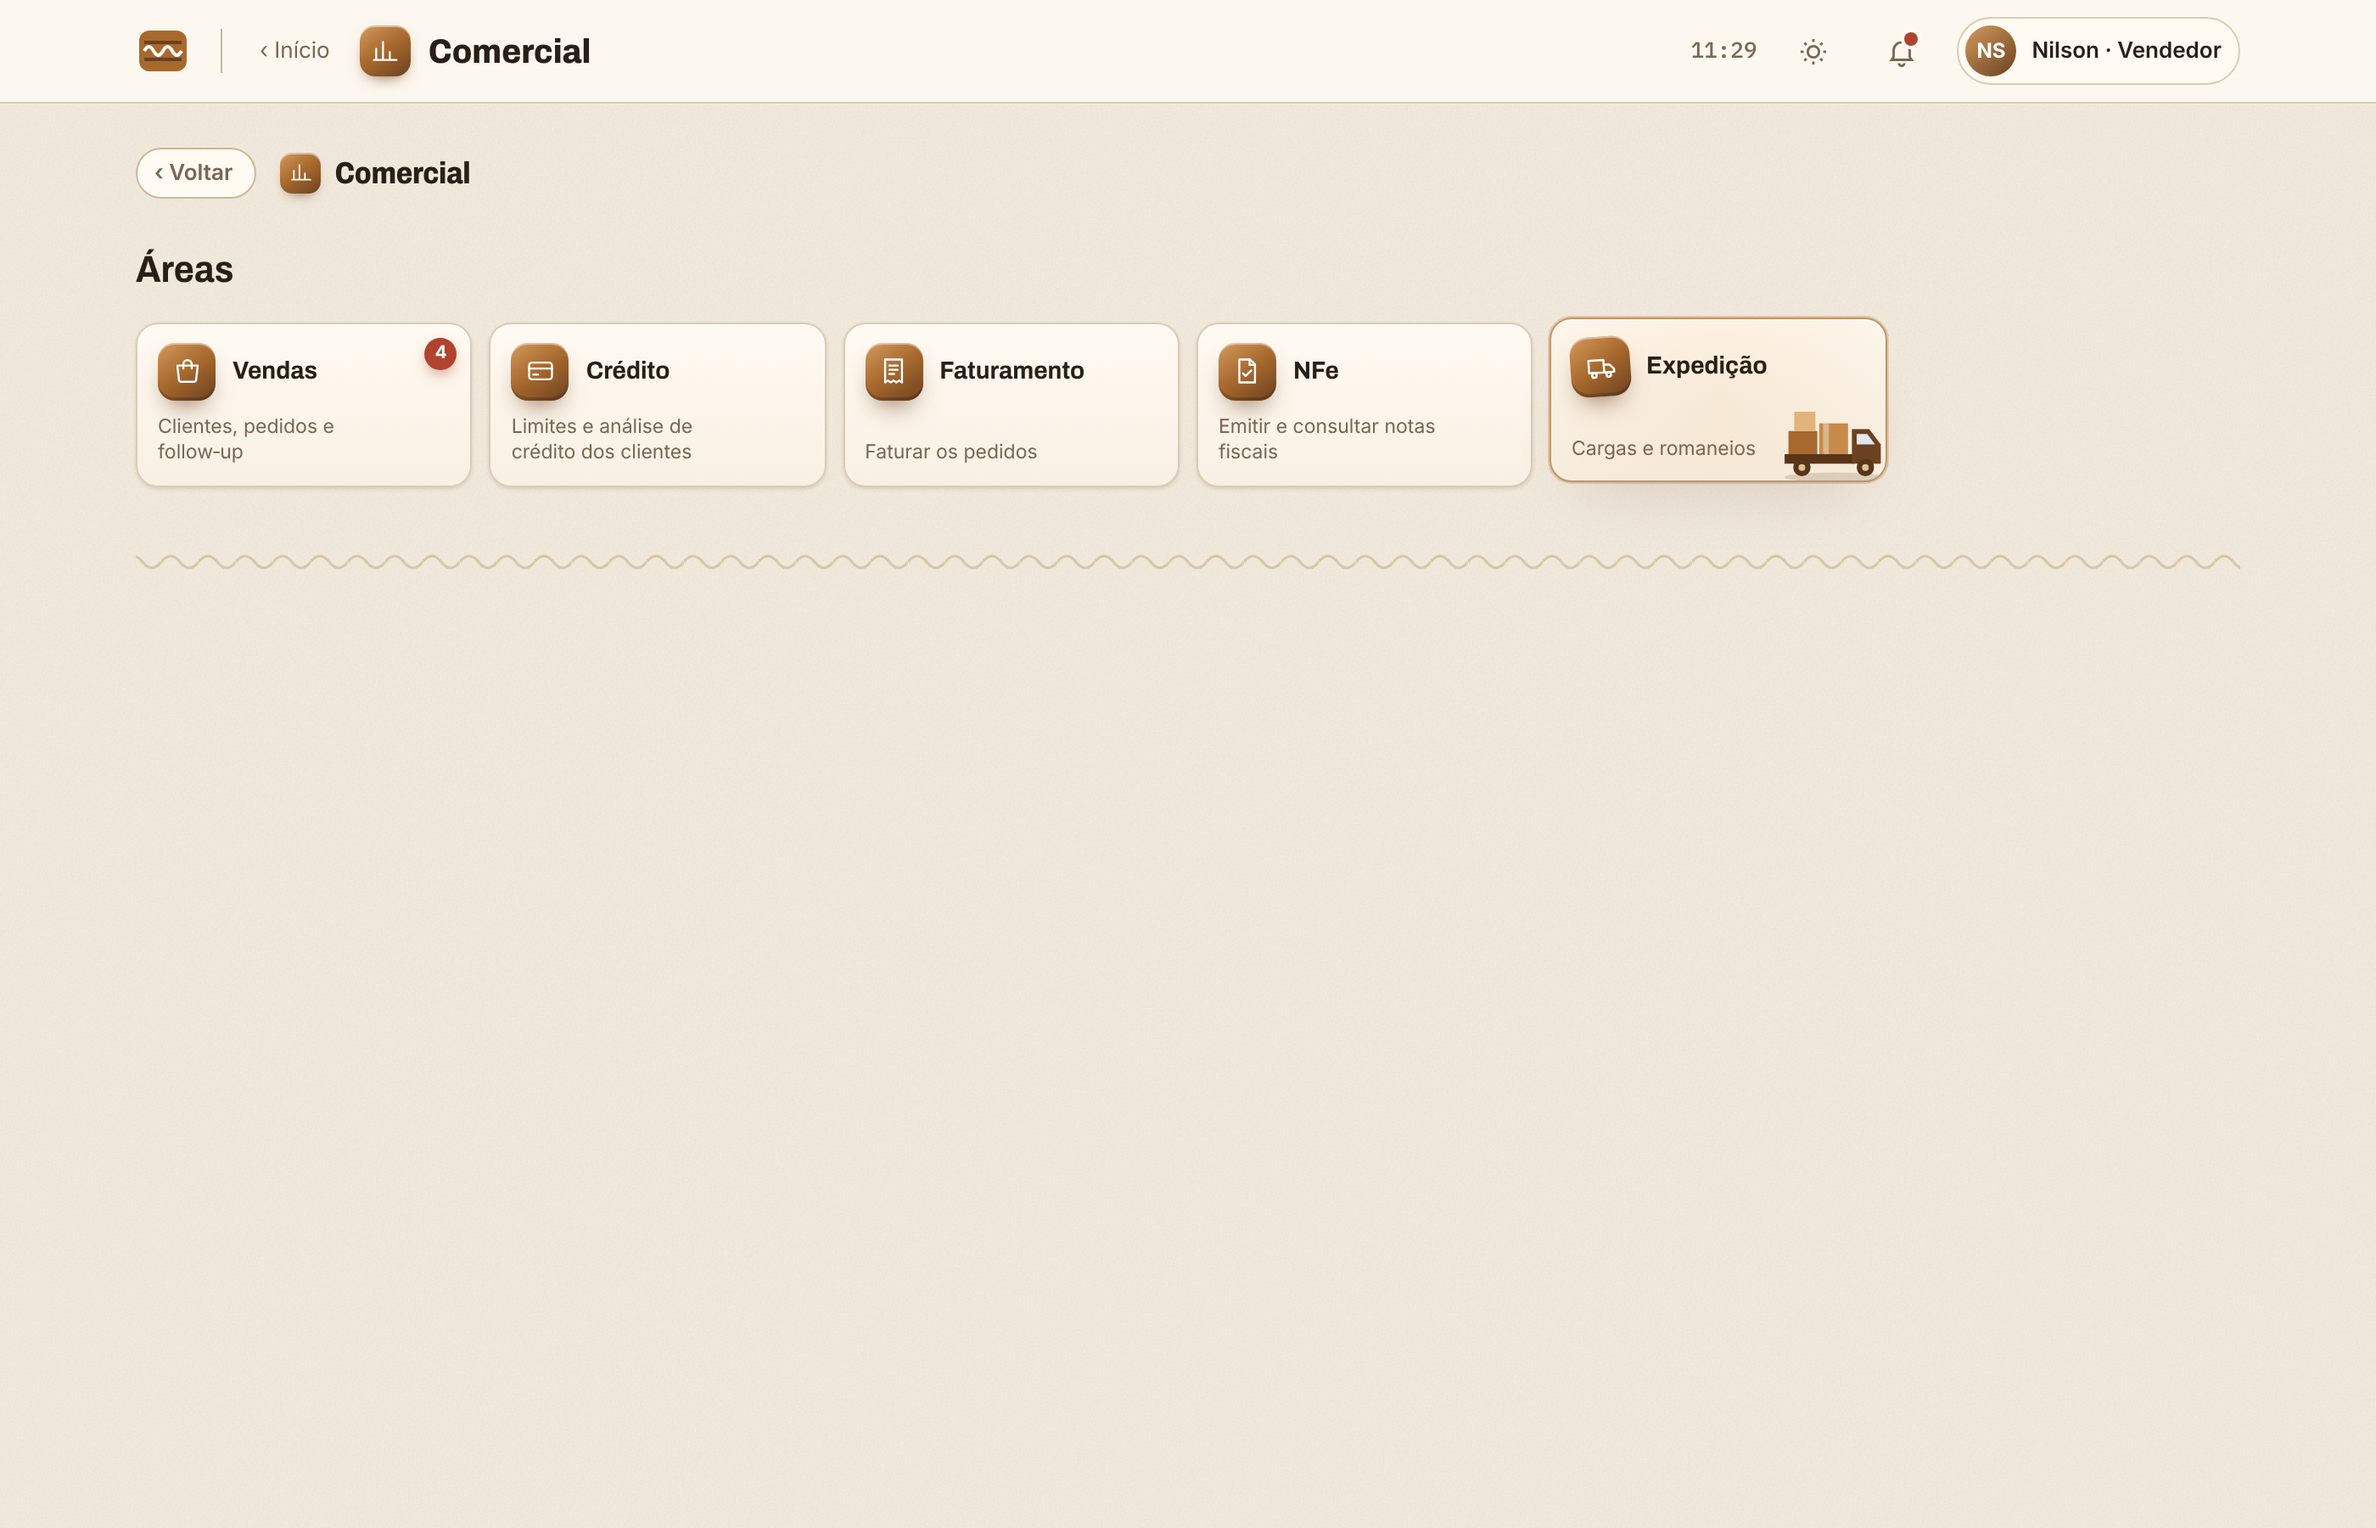
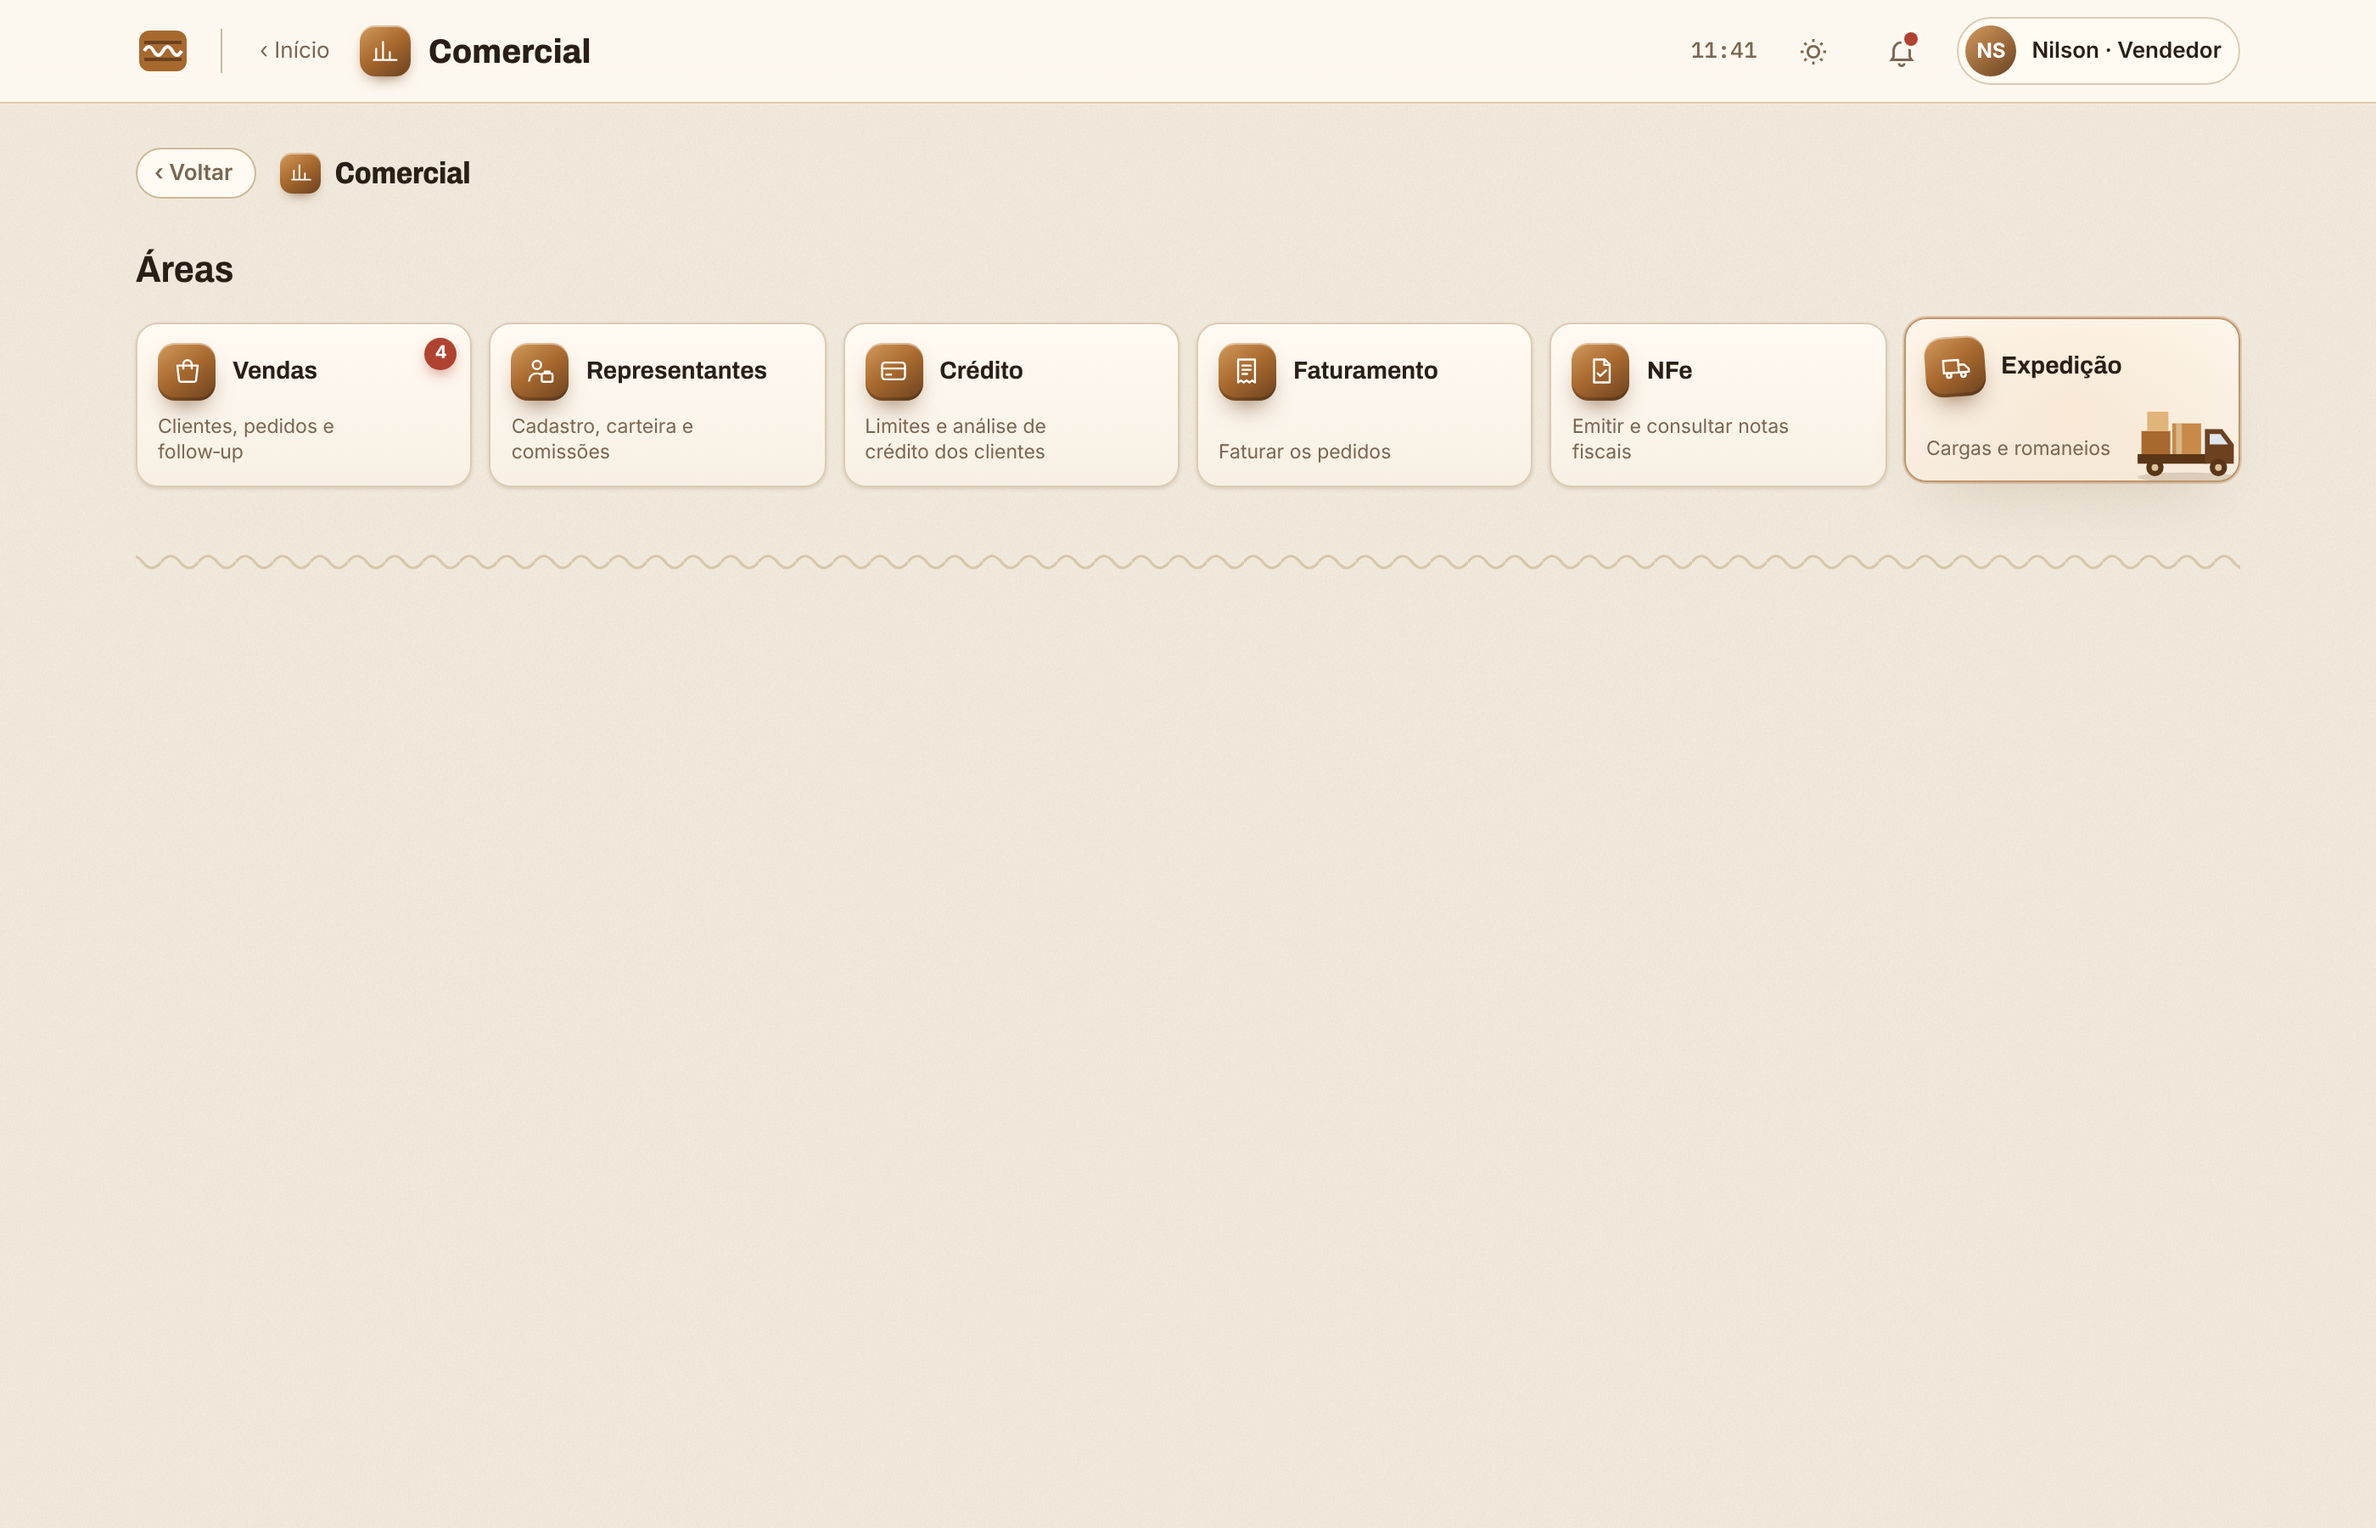
Comercial: nova área Representantes
Claude-Session: https://claude.ai/code/session_015kL8p4eCaL1huCADCSMStj

diff --git a/prototipo/tela-inicial-e-comercial.html b/prototipo/tela-inicial-e-comercial.html
@@ -662,6 +662,18 @@ table.cli{width:100%;border-collapse:collapse;min-width:760px;font-size:14px}
       <path d="M68 80 l10 -7 h28 l-10 7z" fill="var(--k1)"/>
       <path d="M79 80 l10 -7 h5 l-10 7z" fill="var(--tape)"/>
     </g>
+    <!-- Representantes: pessoa com maleta -->
+    <g id="il-representante">
+      <ellipse cx="60" cy="106" rx="46" ry="6" fill="var(--shadow)"/>
+      <circle cx="46" cy="30" r="15" fill="var(--k1)"/>
+      <path d="M14 102 c0 -32 14 -46 32 -46 s32 14 32 46z" fill="var(--k4)"/>
+      <path d="M40 56 l6 14 l6 -14" fill="var(--tape)"/>
+      <path d="M44 62 l2 26 l2 -26z" fill="var(--k5)"/>
+      <path d="M74 64 v-7 a4 4 0 0 1 4 -4 h12 a4 4 0 0 1 4 4 v7" fill="none" stroke="var(--k5)" stroke-width="4"/>
+      <rect x="62" y="64" width="44" height="38" rx="5" fill="var(--k3)"/>
+      <path d="M62 78 h44" stroke="var(--k4)" stroke-width="2.5"/>
+      <rect x="79" y="74" width="10" height="9" rx="2" fill="var(--tape)"/>
+    </g>
     <!-- Crédito: cartão e escudo -->
     <g id="il-cartao">
       <ellipse cx="58" cy="106" rx="46" ry="5" fill="var(--shadow)"/>
@@ -1093,6 +1105,7 @@ const I = {
   suporte:'<path d="M4 14v-2a8 8 0 0 1 16 0v2"/><rect x="3" y="13.5" width="4" height="6" rx="1.5"/><rect x="17" y="13.5" width="4" height="6" rx="1.5"/><path d="M19 19.5c0 1.5-2 2.5-5 2.5"/>',
   /* áreas */
   vendas:'<path d="M3.5 7.5h17l-1.4 12a2 2 0 0 1-2 1.5H6.9a2 2 0 0 1-2-1.5z"/><path d="M8.5 10V6.5a3.5 3.5 0 0 1 7 0V10"/>',
+  representantes:'<circle cx="9" cy="7" r="3.5"/><path d="M2.5 20c.5-3.8 3-6 6.5-6 1.4 0 2.6.3 3.6 1"/><rect x="13" y="14" width="9" height="7" rx="1.5"/><path d="M15.5 14v-1.5h4V14"/>',
   credito:'<rect x="2.5" y="5" width="19" height="14" rx="2.5"/><path d="M2.5 10h19M6 15h4"/>',
   faturamento:'<path d="M5 2.5h14v19l-2.3-1.5-2.4 1.5-2.3-1.5-2.3 1.5-2.4-1.5L5 21.5z"/><path d="M8.5 7.5h7M8.5 11h7M8.5 14.5h4"/>',
   nfe:'<path d="M6 2.5h9l4 4v15H6z"/><path d="M14.5 2.5V7h4.5"/><path d="M9 14l2.2 2.2L16 11.5"/>',
@@ -1121,6 +1134,7 @@ const svg = (k) => `<svg viewBox="0 0 24 24" fill="none" stroke="currentColor" s
 const MODULOS = [
   {k:'comercial', nome:'Comercial', badge:4, areas:[
     {k:'vendas', nome:'Vendas', d:'Clientes, pedidos e follow‑up'},
+    {k:'representantes', nome:'Representantes', d:'Cadastro, carteira e comissões'},
     {k:'credito', nome:'Crédito', d:'Limites e análise de crédito dos clientes'},
     {k:'faturamento', nome:'Faturamento', d:'Faturar os pedidos'},
     {k:'nfe', nome:'NFe', d:'Emitir e consultar notas fiscais'},
@@ -1199,6 +1213,8 @@ const RELATORIOS = [
   {id:'conversao', nome:'Conversão de orçamentos', mod:'comercial', area:'vendas', d:'Orçamentos enviados × fechados'},
   {id:'carteira', nome:'Carteira de pedidos', mod:'comercial', area:'vendas', d:'Pedidos em aberto por cliente'},
   {id:'followups', nome:'Follow-ups da semana', mod:'comercial', area:'vendas', d:'Contatos marcados com clientes'},
+  {id:'comissoes', nome:'Comissões de representantes', mod:'comercial', area:'representantes', d:'Valores a pagar por representante'},
+  {id:'vendas-rep', nome:'Vendas por representante', mod:'comercial', area:'representantes', d:'Volume e margem de cada carteira'},
   {id:'limite', nome:'Clientes com limite estourado', mod:'comercial', area:'credito', d:'Crédito usado acima do liberado'},
   {id:'fat-mes', nome:'Faturamento do mês', mod:'comercial', area:'faturamento', d:'Notas emitidas por dia e por cliente'},
   {id:'entregas', nome:'Entregas por período', mod:'comercial', area:'expedicao', d:'Cargas, romaneios e atrasos'},
@@ -1470,7 +1486,7 @@ $('qtdMod').textContent = `${MODULOS.length} disponíveis para o seu perfil`;
 
 /* caixinha de cada área ao passar o mouse (as demais usam a caixa que abre) */
 const CX_AREA = {
-  vendas:'il-pedido', credito:'il-cartao', faturamento:'il-fatura', nfe:'il-nfe', expedicao:'il-caminhao',
+  vendas:'il-pedido', representantes:'il-representante', credito:'il-cartao', faturamento:'il-fatura', nfe:'il-nfe', expedicao:'il-caminhao',
   engind:'il-planta', pesagem:'il-balanca', pcp:'il-quadro', seguranca:'il-capacete', reporte:'onda', manutencao:'il-chave',
   compras:'il-carrinho', materiais:'pilha',
   laboratorio:'il-frasco', qualidade:'il-lupa', rnc:'il-rnc', fsc:'il-arvore',

diff --git a/README.md b/README.md
@@ -46,7 +46,7 @@ do sistema (com IA) respeitando o que cada usuário pode acessar.
 
   | Módulo | Áreas |
   |---|---|
-  | Comercial | Vendas, Crédito, Faturamento, NFe, Expedição |
+  | Comercial | Vendas, Representantes, Crédito, Faturamento, NFe, Expedição |
   | Industrial | Engenharia industrial, Pesagem, PCP, Segurança, Reporte de produção, Manutenção |
   | Suprimentos | Compras, Materiais |
   | Qualidade | Laboratório, Qualidade, RNC, FSC |
